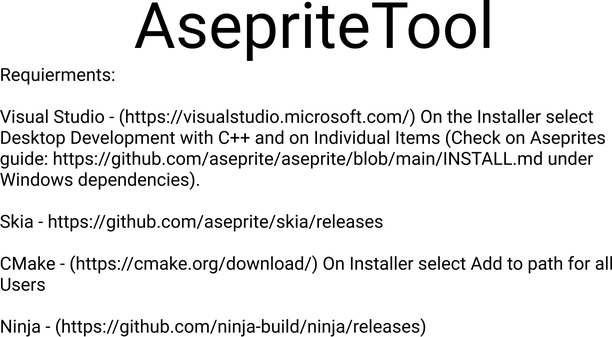
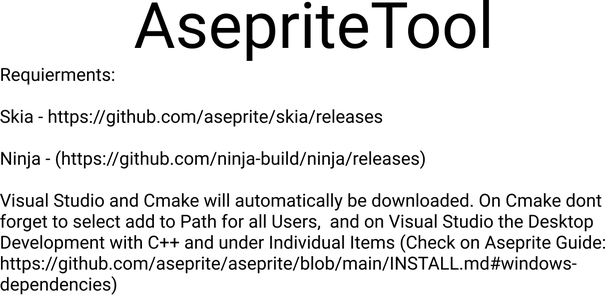
Update

diff --git a/cli.py b/cli.py
@@ -144,15 +144,11 @@ while 1:
 
     elif command == "req":
         print("Requierments: ")
-        print("Visual Studio - (https://visualstudio.microsoft.com/) On the Installer select")
-        print("Desktop Development with C++ and on Individual Items")
-        print("(Check on Aseprites guide: https://github.com/aseprite/aseprite/blob/main/INSTALL.md under Windows dependencies)")
-        print("")
-        print("CMake - (https://cmake.org/download/) On Installer select Add to path for all Users")
         print("")
         print("Skia - https://github.com/aseprite/skia/releases")
         print("")
         print("Ninja - (https://github.com/ninja-build/ninja/releases)")
         print("")
+        print("Visual Studio and Cmake will automatically be downloaded. On Cmake dont forget to select add to Path for all Users, and on Visual Studio the Desktop Development with C++ and under Individual Items (Check on Aseprite Guide: https://github.com/aseprite/aseprite/blob/main/INSTALL.md#windows-dependencies)")
 
         first = False
